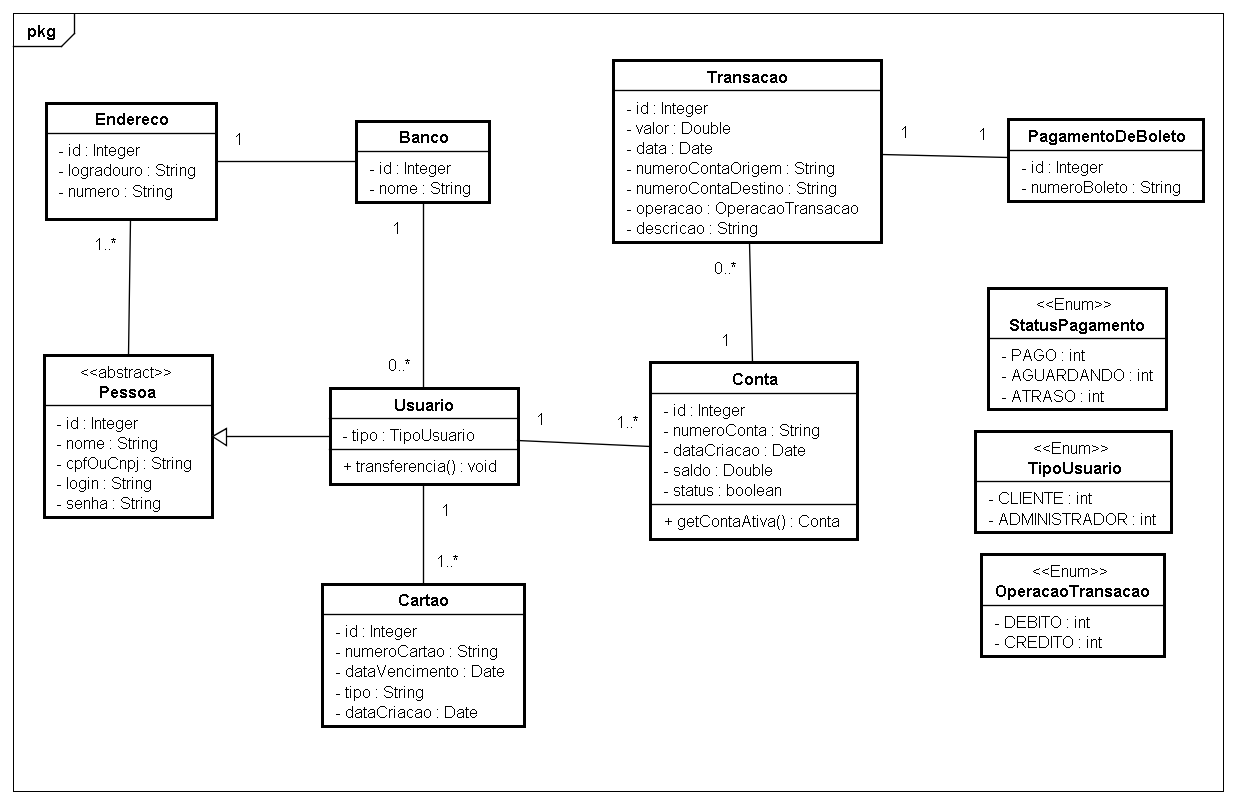
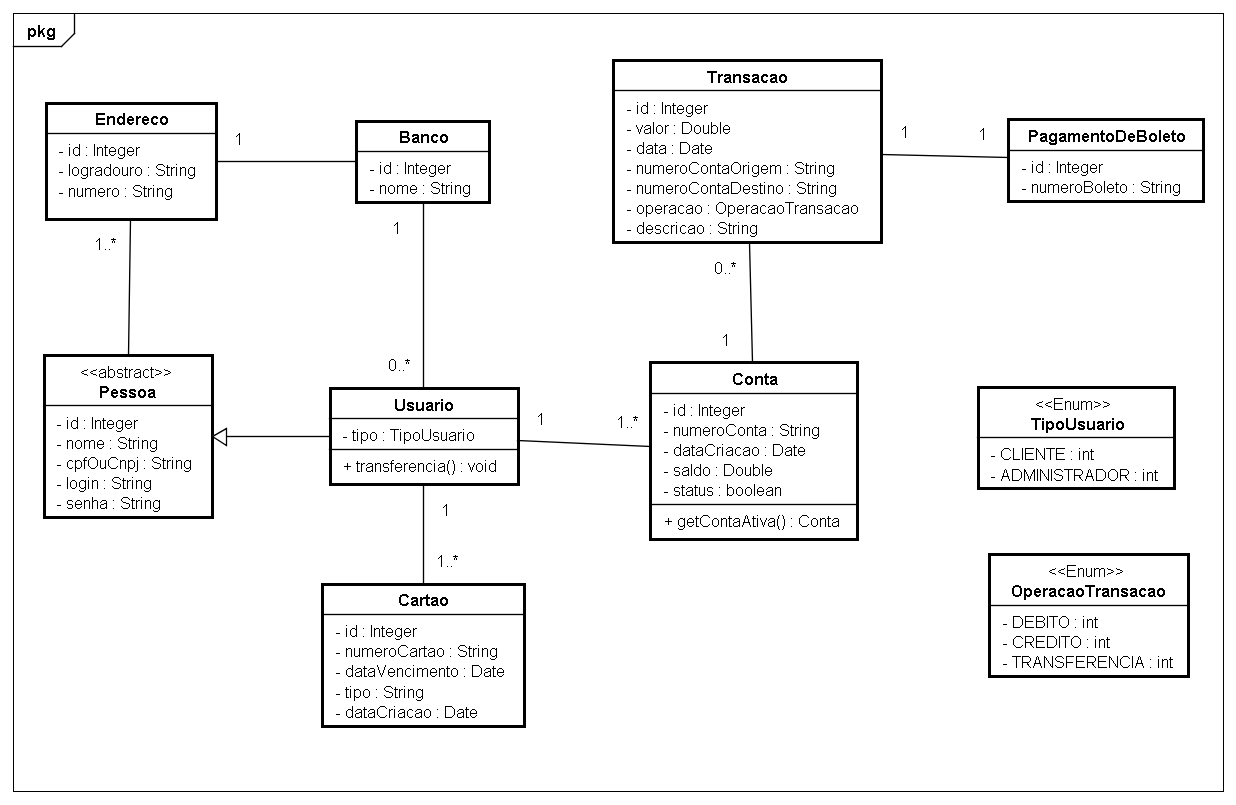
Alteracao para trabalhar com ENUMs

Changed region(s): [[0.7686, 0.3416, 0.9531, 0.6832], [0.7994, 0.7143, 0.9838, 0.8696]]

diff --git a/src/main/java/com/erick/wallet/services/DBService.java b/src/main/java/com/erick/wallet/services/DBService.java
@@ -12,6 +12,8 @@ import com.erick.wallet.domain.Conta;
 import com.erick.wallet.domain.Endereco;
 import com.erick.wallet.domain.Transacao;
 import com.erick.wallet.domain.Usuario;
+import com.erick.wallet.domain.enums.OperacaoTransacao;
+import com.erick.wallet.domain.enums.TipoUsuario;
 import com.erick.wallet.repositories.BancoRepository;
 import com.erick.wallet.repositories.CartaoRepository;
 import com.erick.wallet.repositories.ContaRepository;
@@ -56,9 +58,9 @@ public class DBService {
 		
 		bancoRepository.saveAll(Arrays.asList(b1, b2));
 
-		Transacao tran1 = new Transacao(null, 23.00, new Date(), "AR-13322", "AR-113344", "transferencia");
-		Transacao tran2 = new Transacao(null, 156.00, new Date(), "AR-13322", "AR-113344", "transferencia");
-		Transacao tran3 = new Transacao(null, 2222.00, new Date(), "AR-13322", "AR-113344", "transferencia");
+		Transacao tran1 = new Transacao(null, 23.00, new Date(), "AR-13322", "AR-113344", OperacaoTransacao.TRANSFERENCIA);
+		Transacao tran2 = new Transacao(null, 156.00, new Date(), "AR-13322", "AR-113344", OperacaoTransacao.TRANSFERENCIA);
+		Transacao tran3 = new Transacao(null, 2222.00, new Date(), "AR-13322", "AR-113344", OperacaoTransacao.TRANSFERENCIA);
 		
 		Cartao c1 = new Cartao(null, "123456789", Data.paraData("19-05-2022 09:21"), "C", Data.paraData("21-04-2018"));
 		Cartao c2 = new Cartao(null, "987654321", Data.paraData("19-05-2022 09:21"), "D", Data.paraData("21-04-2018"));
@@ -71,7 +73,7 @@ public class DBService {
 		tran2.setConta(co2);
 		tran3.setConta(co2);
 		
-		Usuario usuario = new Usuario(null, "Erick Luz", "43768646840", "erickluz", "123456", "C");
+		Usuario usuario = new Usuario(null, "Erick Luz", "43768646840", "erickluz", "123456", TipoUsuario.CLIENTE);
 		usuario.setBanco(b1);
 		b1.setUsuario(Arrays.asList(usuario));
 		usuario.setCartao(Arrays.asList(c1, c2));

diff --git a/src/main/java/com/erick/wallet/domain/Transacao.java b/src/main/java/com/erick/wallet/domain/Transacao.java
@@ -11,6 +11,7 @@ import javax.persistence.JoinColumn;
 import javax.persistence.ManyToOne;
 import javax.persistence.OneToOne;
 
+import com.erick.wallet.domain.enums.OperacaoTransacao;
 import com.fasterxml.jackson.annotation.JsonFormat;
 import com.fasterxml.jackson.annotation.JsonIgnore;
 
@@ -28,7 +29,7 @@ public class Transacao implements Serializable{
 	
 	private String numeroContaOrigem;
 	private String numeroContaDestino;
-	private String operacao; //Alterar o tipo para OperacaoTransacao
+	private Integer operacao;
 	
 	@JsonIgnore
 	@ManyToOne
@@ -43,14 +44,14 @@ public class Transacao implements Serializable{
 	}
 
 	public Transacao(Integer id, Double valor, Date data, String numeroContaOrigem, String numeroContaDestino,
-			String operacao) {
+			OperacaoTransacao operacao) {
 		super();
 		this.id = id;
 		this.valor = valor;
 		this.data = data;
 		this.numeroContaOrigem = numeroContaOrigem;
 		this.numeroContaDestino = numeroContaDestino;
-		this.operacao = operacao;
+		this.operacao = (operacao == null)? null : operacao.getCod();
 	}
 
 	public Integer getId() {
@@ -109,12 +110,12 @@ public class Transacao implements Serializable{
 		this.numeroContaDestino = numeroContaDestino;
 	}
 
-	public String getOperacao() {
-		return operacao;
+	public OperacaoTransacao getOperacao() {
+		return OperacaoTransacao.toEnum(this.operacao);
 	}
 
-	public void setOperacao(String operacao) {
-		this.operacao = operacao;
+	public void setOperacao(OperacaoTransacao operacao) {
+		this.operacao = operacao.getCod();
 	}
 
 	@Override

diff --git a/src/main/java/com/erick/wallet/domain/Usuario.java b/src/main/java/com/erick/wallet/domain/Usuario.java
@@ -8,11 +8,13 @@ import javax.persistence.JoinColumn;
 import javax.persistence.ManyToOne;
 import javax.persistence.OneToMany;
 
+import com.erick.wallet.domain.enums.TipoUsuario;
+
 @Entity // Alteracao aqui
 public class Usuario extends Pessoa implements Serializable{
 	private static final long serialVersionUID = 1L;
 	
-	private String tipo; // Mudar para o tipo TipoUsuario
+	private Integer tipo;
 	
 	@ManyToOne
 	@JoinColumn(name="banco_id")
@@ -28,9 +30,9 @@ public class Usuario extends Pessoa implements Serializable{
 		
 	}
 
-	public Usuario(Integer id, String nome, String cpfOuCnpj, String login, String senha, String tipo) {
+	public Usuario(Integer id, String nome, String cpfOuCnpj, String login, String senha, TipoUsuario tipo) {
 		super(id, nome, cpfOuCnpj, login, senha);
-		this.tipo = tipo;
+		this.tipo = (tipo == null) ? null : tipo.getCod();
 	}
 
 	public List<Conta> getConta() {
@@ -49,12 +51,12 @@ public class Usuario extends Pessoa implements Serializable{
 		this.cartao = cartao;
 	}
 
-	public String getTipo() {
-		return tipo;
+	public TipoUsuario getTipo() {
+		return TipoUsuario.toEnum(this.tipo);
 	}
 
-	public void setTipo(String tipo) {
-		this.tipo = tipo;
+	public void setTipo(TipoUsuario tipo) {
+		this.tipo = tipo.getCod();
 	}
 
 	public Banco getBanco() {

diff --git a/src/main/java/com/erick/wallet/domain/enums/OperacaoTransacao.java b/src/main/java/com/erick/wallet/domain/enums/OperacaoTransacao.java
@@ -1,0 +1,34 @@
+package com.erick.wallet.domain.enums;
+
+public enum OperacaoTransacao {
+	CREDITO(1), DEBITO(2), TRANSFERENCIA(3);
+
+	private Integer cod; 
+	
+	private OperacaoTransacao(Integer cod) {
+		this.cod = cod;
+	}
+
+	public int getCod() {
+		return cod;
+	}
+
+	public void setCod(int cod) {
+		this.cod = cod;
+	}
+	
+	public static OperacaoTransacao toEnum(Integer cod) {
+		if(cod == null) {
+			return null;
+		}
+		
+		for(OperacaoTransacao x : OperacaoTransacao.values()) {
+			if(cod.equals(x.getCod())) {
+				return x;
+			}
+		}
+		
+		throw new IllegalArgumentException("Id invalido: " + cod);
+	}
+
+}

diff --git a/src/main/java/com/erick/wallet/domain/enums/TipoUsuario.java b/src/main/java/com/erick/wallet/domain/enums/TipoUsuario.java
@@ -1,0 +1,35 @@
+package com.erick.wallet.domain.enums;
+
+public enum TipoUsuario {
+
+	ADMINISTRADOR(1), CLIENTE(2);
+
+	private Integer cod; 
+	
+	private TipoUsuario(Integer cod) {
+		this.cod = cod;
+	}
+
+	public int getCod() {
+		return cod;
+	}
+
+	public void setCod(int cod) {
+		this.cod = cod;
+	}
+	
+	public static TipoUsuario toEnum(Integer cod) {
+		if(cod == null) {
+			return null;
+		}
+		
+		for(TipoUsuario x : TipoUsuario.values()) {
+			if(cod.equals(x.getCod())) {
+				return x;
+			}
+		}
+		
+		throw new IllegalArgumentException("Id invalido: " + cod);
+	}
+	
+}
